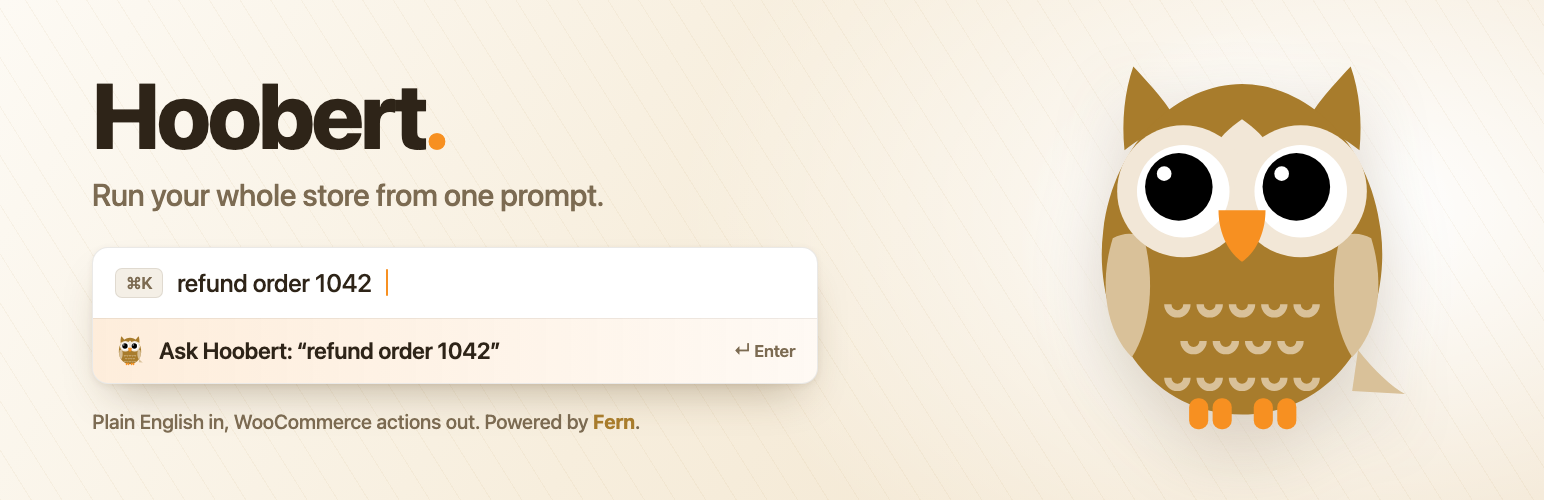
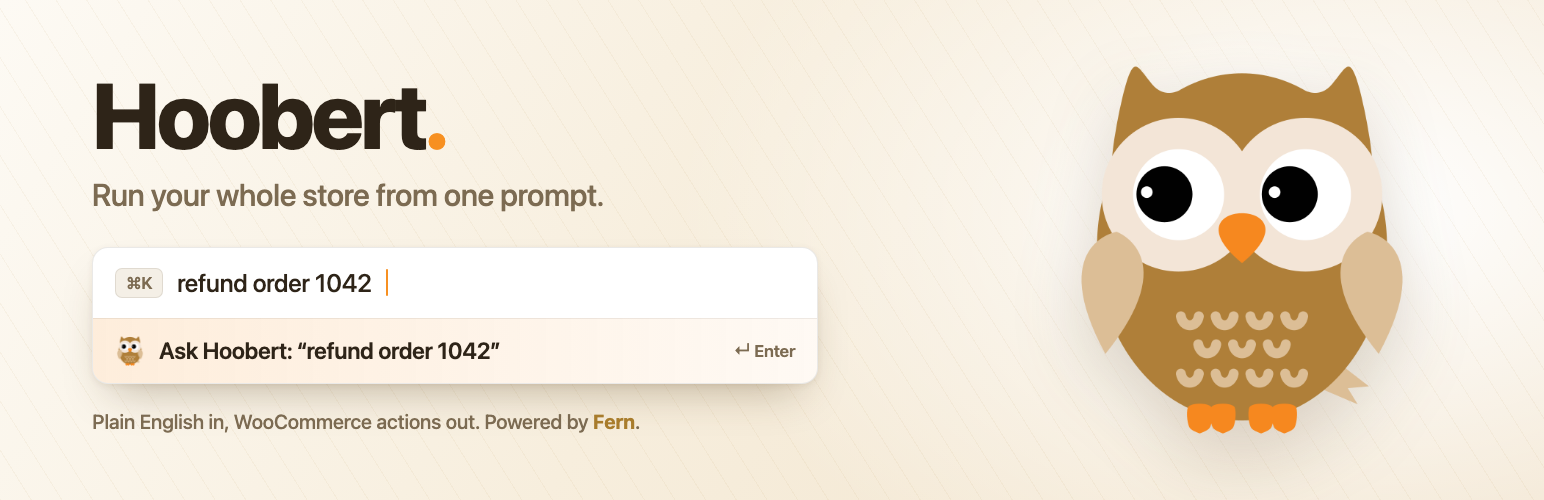
fix: build every directory asset from the original owl artwork
The original raster art was only wired into the icons. The banner and
the copy shipped inside the plugin still rendered the vector redraw, so
the listing would have carried two versions of the owl.

The script treated the PNG as an icon source rather than as the mark.
It now picks one mark, drives every output from it, and prints which one
it used. The banner source keeps a real filename in its img src so it
still previews standalone; the render swaps in whichever mark applies.

Also drops icon.svg. wp.org serves it to modern browsers with the PNGs
as fallback, so shipping the redraw beside PNGs of the original would
have shown a different owl depending on the browser. SVG is optional in
the spec, the PNGs are not, so it is emitted only when the redraw is
itself the mark.

The plugin now ships assets/hoobert-owl.png, rasterised at 256px from
whichever source applies, so the settings screen has one predictable
filename to reference instead of branching on extension.

Changed region(s): [[0.6839, 0.15, 0.9326, 0.87], [0.0622, 0.66, 0.0933, 0.72]]

diff --git a/plugin/hoobert/includes/class-settings.php b/plugin/hoobert/includes/class-settings.php
@@ -118,7 +118,7 @@ class Hoobert_Settings {
 		?>
 		<div class="wrap">
 			<h1 class="hoobert-title">
-				<img src="<?php echo esc_url( HOOBERT_URL . 'assets/hoobert-owl.svg' ); ?>" alt="" width="40" height="40" />
+				<img src="<?php echo esc_url( HOOBERT_URL . 'assets/hoobert-owl.png' ); ?>" alt="" width="40" height="40" />
 				<?php esc_html_e( 'Hoobert', 'hoobert' ); ?>
 			</h1>
 			<style>

diff --git a/docs/wordpress-org-submission.md b/docs/wordpress-org-submission.md
@@ -41,9 +41,8 @@ It rasterises through headless Chrome, so there are no npm dependencies. Set
 
 | File | Size | Source | Status |
 | --- | --- | --- | --- |
-| `.wordpress-org/icon-128x128.png` | 128x128 | `assets-src/hoobert-owl.svg` | done |
+| `.wordpress-org/icon-128x128.png` | 128x128 | `assets-src/hoobert-owl.png` | done |
 | `.wordpress-org/icon-256x256.png` | 256x256 | same | done |
-| `.wordpress-org/icon.svg` | vector | same | done |
 | `.wordpress-org/banner-772x250.png` | 772x250 | `assets-src/banner.html` | done |
 | `.wordpress-org/banner-1544x500.png` | 1544x500 | same | done |
 | `.wordpress-org/screenshot-1..7.png` | any | shot by hand, see below | done |
@@ -51,11 +50,24 @@ It rasterises through headless Chrome, so there are no npm dependencies. Set
 
 ### About the owl
 
-`assets-src/hoobert-owl.svg` is a vector redraw of the "funny owl" icon by
-agustrisana on Flaticon, in the Fernfly palette. **If you have the original PNG,
-drop it in as `assets-src/hoobert-owl.png`** and re-run the build; the script
-prefers it for the icons automatically. The redraw exists so the pipeline works
-without it, not because it is better.
+`assets-src/hoobert-owl.png` is the original "funny owl" artwork by agustrisana
+on Flaticon. It is the mark for **every** output: the directory icons, the owl in
+the banner, and the copy shipped inside the plugin for the settings screen.
+
+`assets-src/hoobert-owl.svg` is a vector redraw in the Fernfly palette, kept only
+as a stand-in for when the original is missing. It is close but not identical, so
+the two must never appear in the same build. The script enforces that: whichever
+source it picks drives all outputs, and it prints which one it used.
+
+That is also why `.wordpress-org/icon.svg` is **not** committed. wp.org serves
+`icon.svg` to modern browsers with the PNGs as fallback, so shipping the redraw
+next to PNGs of the original would give the listing two different icons depending
+on the browser. The script emits `icon.svg` only when the redraw is the mark, and
+deletes it otherwise. SVG is optional in the wp.org spec; the PNGs are not.
+
+The plugin always ships `assets/hoobert-owl.png`, rasterised at 256px from
+whichever source applies, so `class-settings.php` has one predictable filename to
+reference.
 
 The Flaticon free licence requires attribution wherever the icon appears. It is
 in three places: the plugin settings screen (`Hoobert_Settings::render_credits`),

diff --git a/CLAUDE.md b/CLAUDE.md
@@ -65,8 +65,11 @@ shippable product: no "demo" framing in code, UI, or docs.
 - `assets-src/` — sources for the plugin-directory artwork (owl SVG, banner HTML);
   `.wordpress-org/` — the generated icons/banners plus hand-added screenshots, copied
   to SVN `assets/` on release. Regenerate with `node scripts/build-wporg-assets.mjs`;
-  never hand-edit the PNGs. The owl also ships inside the plugin at
-  `plugin/hoobert/assets/hoobert-owl.svg` for the settings screen, and its Flaticon
+  never hand-edit the PNGs. One mark drives every output: `hoobert-owl.png` (the
+  original artwork) when present, else `hoobert-owl.svg` (a redraw). Never let both
+  reach one build; that is also why `icon.svg` is only emitted when the redraw is
+  the mark. The owl also ships inside the plugin at
+  `plugin/hoobert/assets/hoobert-owl.png` for the settings screen, and its Flaticon
   attribution must stay on that screen, in `readme.txt`, and in `README.md`.
 
 ## Shipping to WordPress.org

diff --git a/README.md b/README.md
@@ -176,7 +176,7 @@ Keep the set focused. It is deliberately capped at ~28 tools covering core journ
 | `scripts/setup.sh`             | Runs in the wpcli container: installs WP + WooCommerce, seeds sample data, mints REST API keys. Idempotent. |
 | `scripts/seed-sample-data.php` | Products, a variable product, orders across 90 days and every status, refunds, customers, reviews, coupons, plus a refund-capable sample gateway. Idempotent. Shared by local dev and the blueprint demo. |
 | `scripts/generate-api-key.php` | Mints a WooCommerce REST consumer key/secret for external testing.                                   |
-| `assets-src/`                  | Sources for the plugin-directory artwork: the owl (`hoobert-owl.svg`) and the banner layout (`banner.html`). |
+| `assets-src/`                  | Sources for the plugin-directory artwork: the owl (`hoobert-owl.png`, with `hoobert-owl.svg` as a fallback redraw) and the banner layout (`banner.html`). |
 | `.wordpress-org/`              | Generated directory assets (icons, banners, preview blueprint) plus hand-added screenshots. Copied to SVN `assets/` on release. |
 | `docs/wordpress-org-submission.md` | Everything needed to publish to the WordPress.org plugin directory.                              |
 